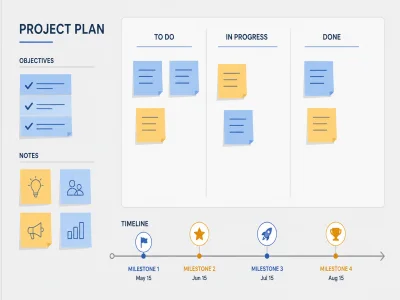
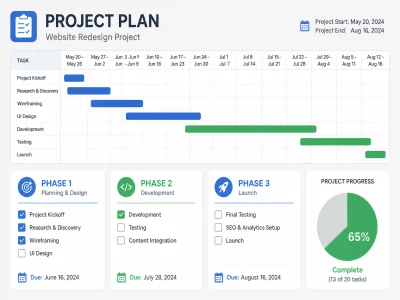
photo_new

diff --git a/index.html b/index.html
@@ -9184,7 +9184,7 @@
             { id: 'builtin_notion', name: 'Notion 技巧 (Notion Tips)', data: '/task_photos/task_notion.webp' },
             { id: 'builtin_claude_code', name: 'Claude Code 學習 (Claude Code)', data: '/task_photos/task_claude_code.webp' },
             { id: 'builtin_medical_knowledge', name: '醫學知識精進 (Medical Knowledge)', data: 'https://images.unsplash.com/photo-1576091160550-2173dba999ef?w=400&auto=format&fit=crop&q=80' },
-            { id: 'builtin_youtube', name: 'YouTube 影片觀看 (YouTube Watching)', data: 'https://images.unsplash.com/photo-1611532736597-de2d4265fba3?w=400&auto=format&fit=crop&q=80' },
+            { id: 'builtin_youtube', name: 'YouTube 影片觀看 (YouTube Watching)', data: '/task_photos/task_youtube.webp' },
             { id: 'builtin_online_course', name: '線上課程學習 (Online Learning)', data: 'https://images.unsplash.com/photo-1501504905252-473c47e087f8?w=400&auto=format&fit=crop&q=80' },
             { id: 'builtin_project_planning', name: 'Project 研擬 (Project Planning)', data: '/task_photos/task_project_planning.webp' }
         ];
